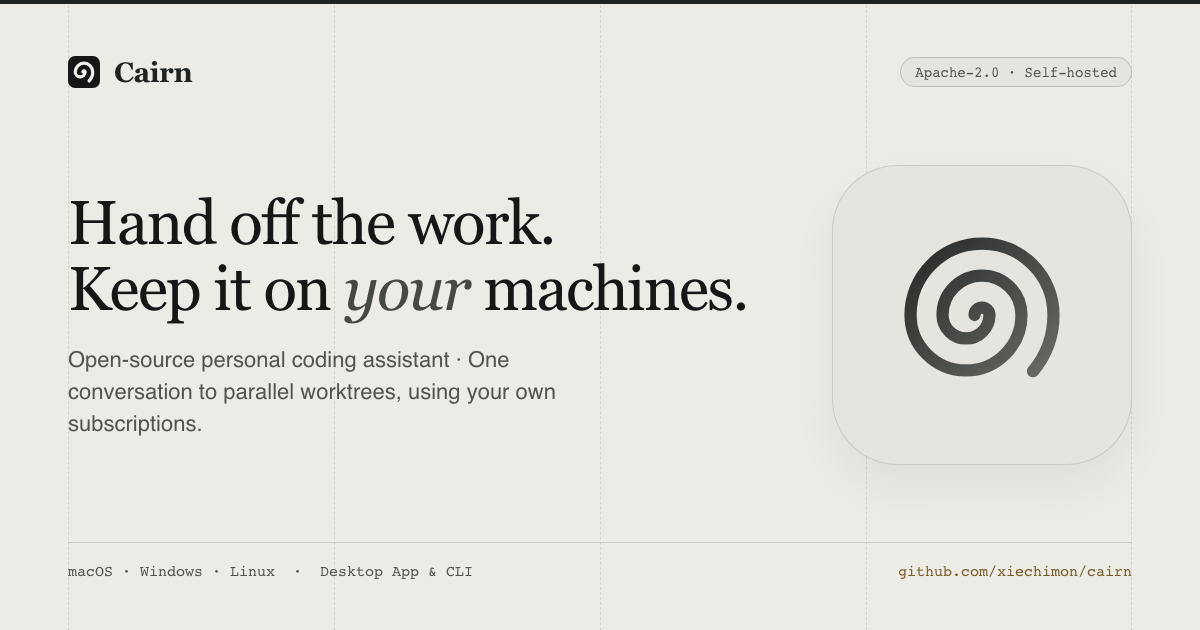
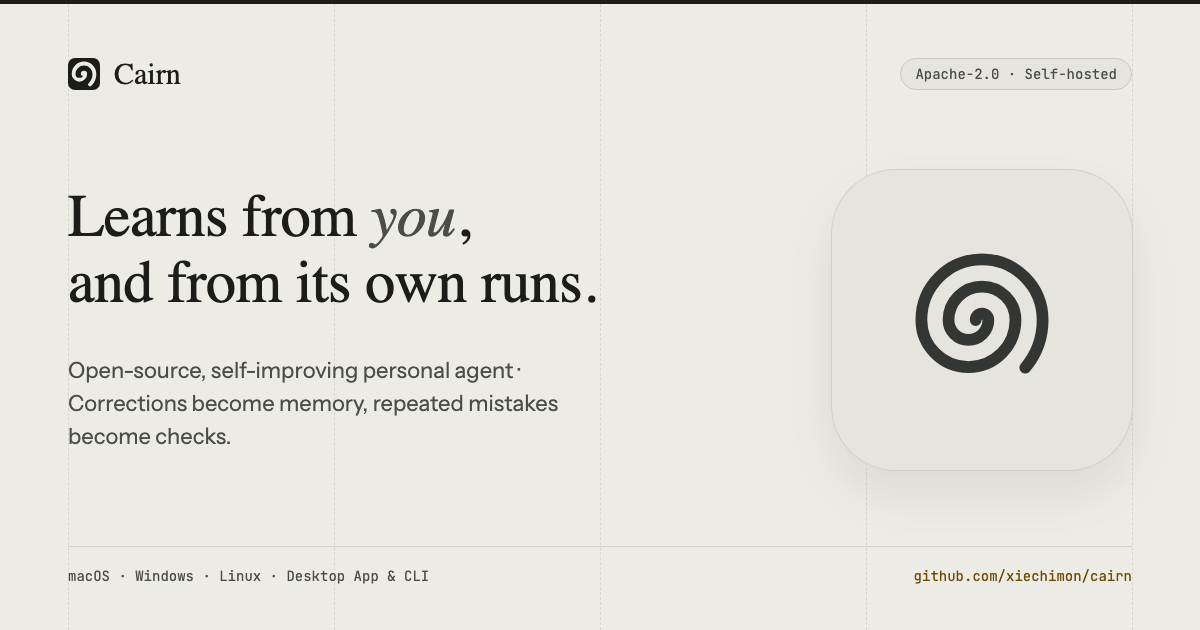
site(signature): lead with learning from you and its own runs, show the eval suite on the first screen
Lane: m-a13edfa9/site-signature

diff --git a/site/src/components/copy.ts b/site/src/components/copy.ts
@@ -7,6 +7,7 @@ export const links = {
   releases: `${repo}/releases/latest`,
   discussions: `${repo}/discussions`,
   issues: `${repo}/issues`,
+  eval: `${repo}/tree/main/eval`,
   security: `${repo}/blob/main/SECURITY.md`,
   license: `${repo}/blob/main/LICENSE`,
 };
@@ -22,7 +23,7 @@ export const copy = {
     skipToContent: '跳到正文',
     navLabel: '主导航',
     footerNavLabel: '页脚导航',
-    title: 'Cairn：交代一件事，让它在你自己的机器上推进',
+    title: 'Cairn：从你身上学，也从自己的任务里学',
     description:
       'Cairn 是开源（Apache-2.0）、自托管的个人开发助理：在一个对话里说清目标，agent 在你自己的电脑上用你现有的模型订阅独立查资料、改代码并验证，只在要拍板时找你。',
     nav: {
@@ -32,8 +33,17 @@ export const copy = {
       themeToDark: '切换到深色',
       themeToLight: '切换到浅色',
     },
-    h1: ['交代一件事，', '让它在你自己的机器上推进'],
-    lede: '在一个对话里说清目标。Cairn 在你自己的电脑上独立查资料、改代码并验证，只在要拍板或撤不回的操作前找你。',
+    h1: ['从你身上学，', '也从自己的任务里学'],
+    lede: 'Cairn 是会自己变好的个人 agent：你纠正过的事会变成它之后每个对话都带着的记忆；同一个错再犯，它会提议在你的仓库里加一道检查；失败的任务会把教训交给下一次重试。',
+    proof: {
+      label: '「变好」怎么量',
+      cases: '个固定用例',
+      kinds: { runtime: 'Coordinator 回合回放', lane: '真实编码任务', canary: '哨兵用例' },
+      trials: (n: number) => `每轮评测共 ${n} 次试验`,
+      source: '公开题目和评分代码在仓库 eval/ 目录',
+      chart: '各版本得分',
+      empty: '还没有公开的评测结果',
+    },
     start: '下载桌面应用',
     copy: '复制',
     copied: '已复制',
@@ -153,7 +163,7 @@ export const copy = {
     skipToContent: 'Skip to content',
     navLabel: 'Primary',
     footerNavLabel: 'Footer',
-    title: 'Cairn: Hand off the work. Keep it on your machines.',
+    title: 'Cairn: Learns from you, and from its own runs.',
     description:
       'Cairn is an open-source (Apache-2.0), self-hosted personal assistant for people who write code. Describe what you want in one conversation; agents research, build, and verify on your own hardware with your own subscriptions.',
     nav: {
@@ -163,8 +173,17 @@ export const copy = {
       themeToDark: 'Switch to dark theme',
       themeToLight: 'Switch to light theme',
     },
-    h1: ['Hand off the work. ', 'Keep it on your machines.'],
-    lede: 'Describe what you want in one conversation. Cairn researches, builds, and verifies on your own hardware with your own subscriptions, and only interrupts when a decision is yours.',
+    h1: ['Learns from you, ', 'and from its own runs.'],
+    lede: 'Cairn is a self-improving personal agent. What you correct becomes memory it brings to every later conversation; when a mistake repeats, it offers to add a check to your repo; a failed run hands its lessons to the retry.',
+    proof: {
+      label: 'How “better” is measured',
+      cases: 'fixed cases',
+      kinds: { runtime: 'Coordinator turns replayed', lane: 'real coding tasks', canary: 'canaries' },
+      trials: (n: number) => `${n} trials per eval run`,
+      source: 'Public tasks and scorers live in eval/',
+      chart: 'Score by release',
+      empty: 'No public eval run yet',
+    },
     start: 'Download desktop app',
     copy: 'Copy',
     copied: 'Copied',
